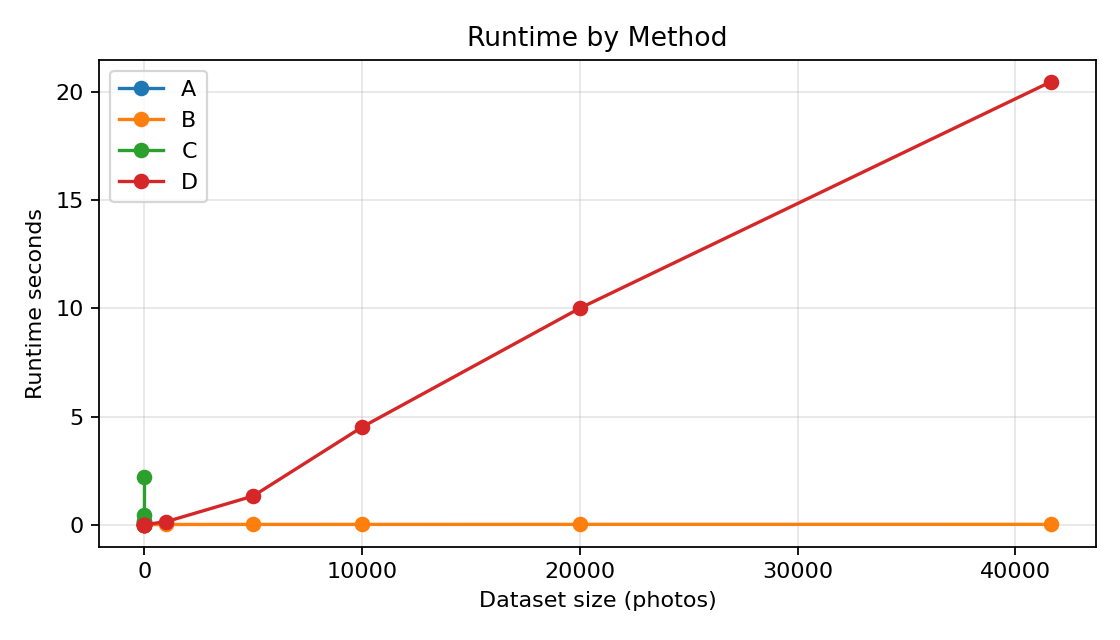
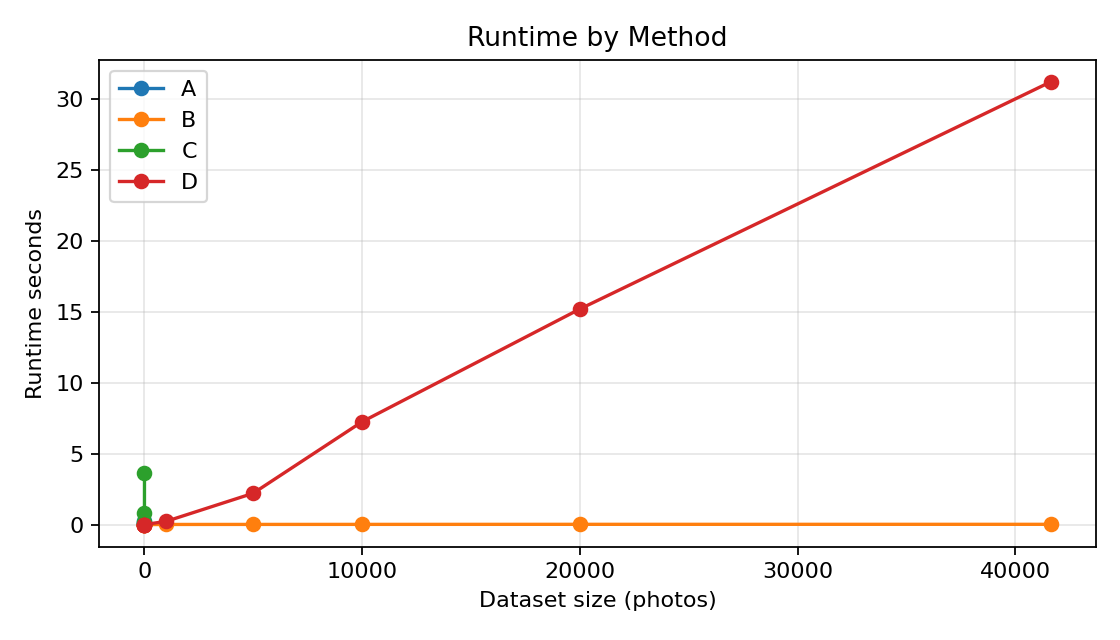
Sync report with refreshed canonical results

diff --git a/docs/report/report.tex b/docs/report/report.tex
@@ -165,7 +165,7 @@ The smallest assignment budget is $\budget=3$. The full-data Method D run is the
     \toprule
     Method & Selected photos & Cosine proxy & Runtime (s) & Peak MB \\
     \midrule
-    D & normalized: 5974, 39809, 24228; line IDs: 5975, 39810, 24229 & 0.369236 & 20.478 & 427.795 \\
+    D & normalized: 5974, 39809, 24228; line IDs: 5975, 39810, 24229 & 0.369236 & 31.172 & 427.795 \\
     \bottomrule
   \end{tabularx}
 \end{table}
@@ -201,7 +201,7 @@ On the full dataset, Method A would need to evaluate 12,014,997,156,340 subsets 
 On query-active samples small enough for exact search, Method D nearly matches Method A under the cosine proxy. For $\budget=3$, average cosine utility is 0.612920 for A and 0.612436 for D. For $\budget=4$, it is 0.696715 for A and 0.696319 for D. This is evidence that the greedy coverage objective recovers the exact coverage structure on feasible instances.
 
 \textbf{Scalability and quality.}
-Method B is consistently fastest and lightest. On the full dataset at $\budget=3$, B runs in 0.013 seconds with 1.278 MB peak measured memory, but its cosine-proxy utility is 0.283321. Method D runs in 20.478 seconds with 427.795 MB peak measured memory and reaches 0.369236 cosine-proxy utility. Averaged over the scalability batch, B reaches 0.293034 while D reaches 0.366595.
+Method B is consistently fastest and lightest. On the full dataset at $\budget=3$, B runs in 0.022 seconds with 1.278 MB peak measured memory, but its cosine-proxy utility is 0.283321. Method D runs in 31.172 seconds with 427.795 MB peak measured memory and reaches 0.369236 cosine-proxy utility. Averaged over the scalability batch, B reaches 0.293034 while D reaches 0.366595.
 
 \begin{figure}[!htbp]
   \centering
@@ -219,16 +219,16 @@ Method B is consistently fastest and lightest. On the full dataset at $\budget=3
     \toprule
     Method & Photos & Cosine proxy & Runtime (s) \\
     \midrule
-    B & 1,000 & 0.302 & 0.007 \\
-    B & 5,000 & 0.311 & 0.009 \\
-    B & 10,000 & 0.286 & 0.011 \\
-    B & 20,000 & 0.283 & 0.012 \\
-    B & 41,620 & 0.283 & 0.013 \\
-    D & 1,000 & 0.359 & 0.133 \\
-    D & 5,000 & 0.368 & 1.322 \\
-    D & 10,000 & 0.366 & 4.510 \\
-    D & 20,000 & 0.371 & 10.010 \\
-    D & 41,620 & 0.369 & 20.478 \\
+    B & 1,000 & 0.302 & 0.012 \\
+    B & 5,000 & 0.311 & 0.015 \\
+    B & 10,000 & 0.286 & 0.017 \\
+    B & 20,000 & 0.283 & 0.021 \\
+    B & 41,620 & 0.283 & 0.022 \\
+    D & 1,000 & 0.359 & 0.229 \\
+    D & 5,000 & 0.368 & 2.205 \\
+    D & 10,000 & 0.366 & 7.240 \\
+    D & 20,000 & 0.371 & 15.178 \\
+    D & 41,620 & 0.369 & 31.172 \\
     \bottomrule
   \end{tabular}
 \end{table}